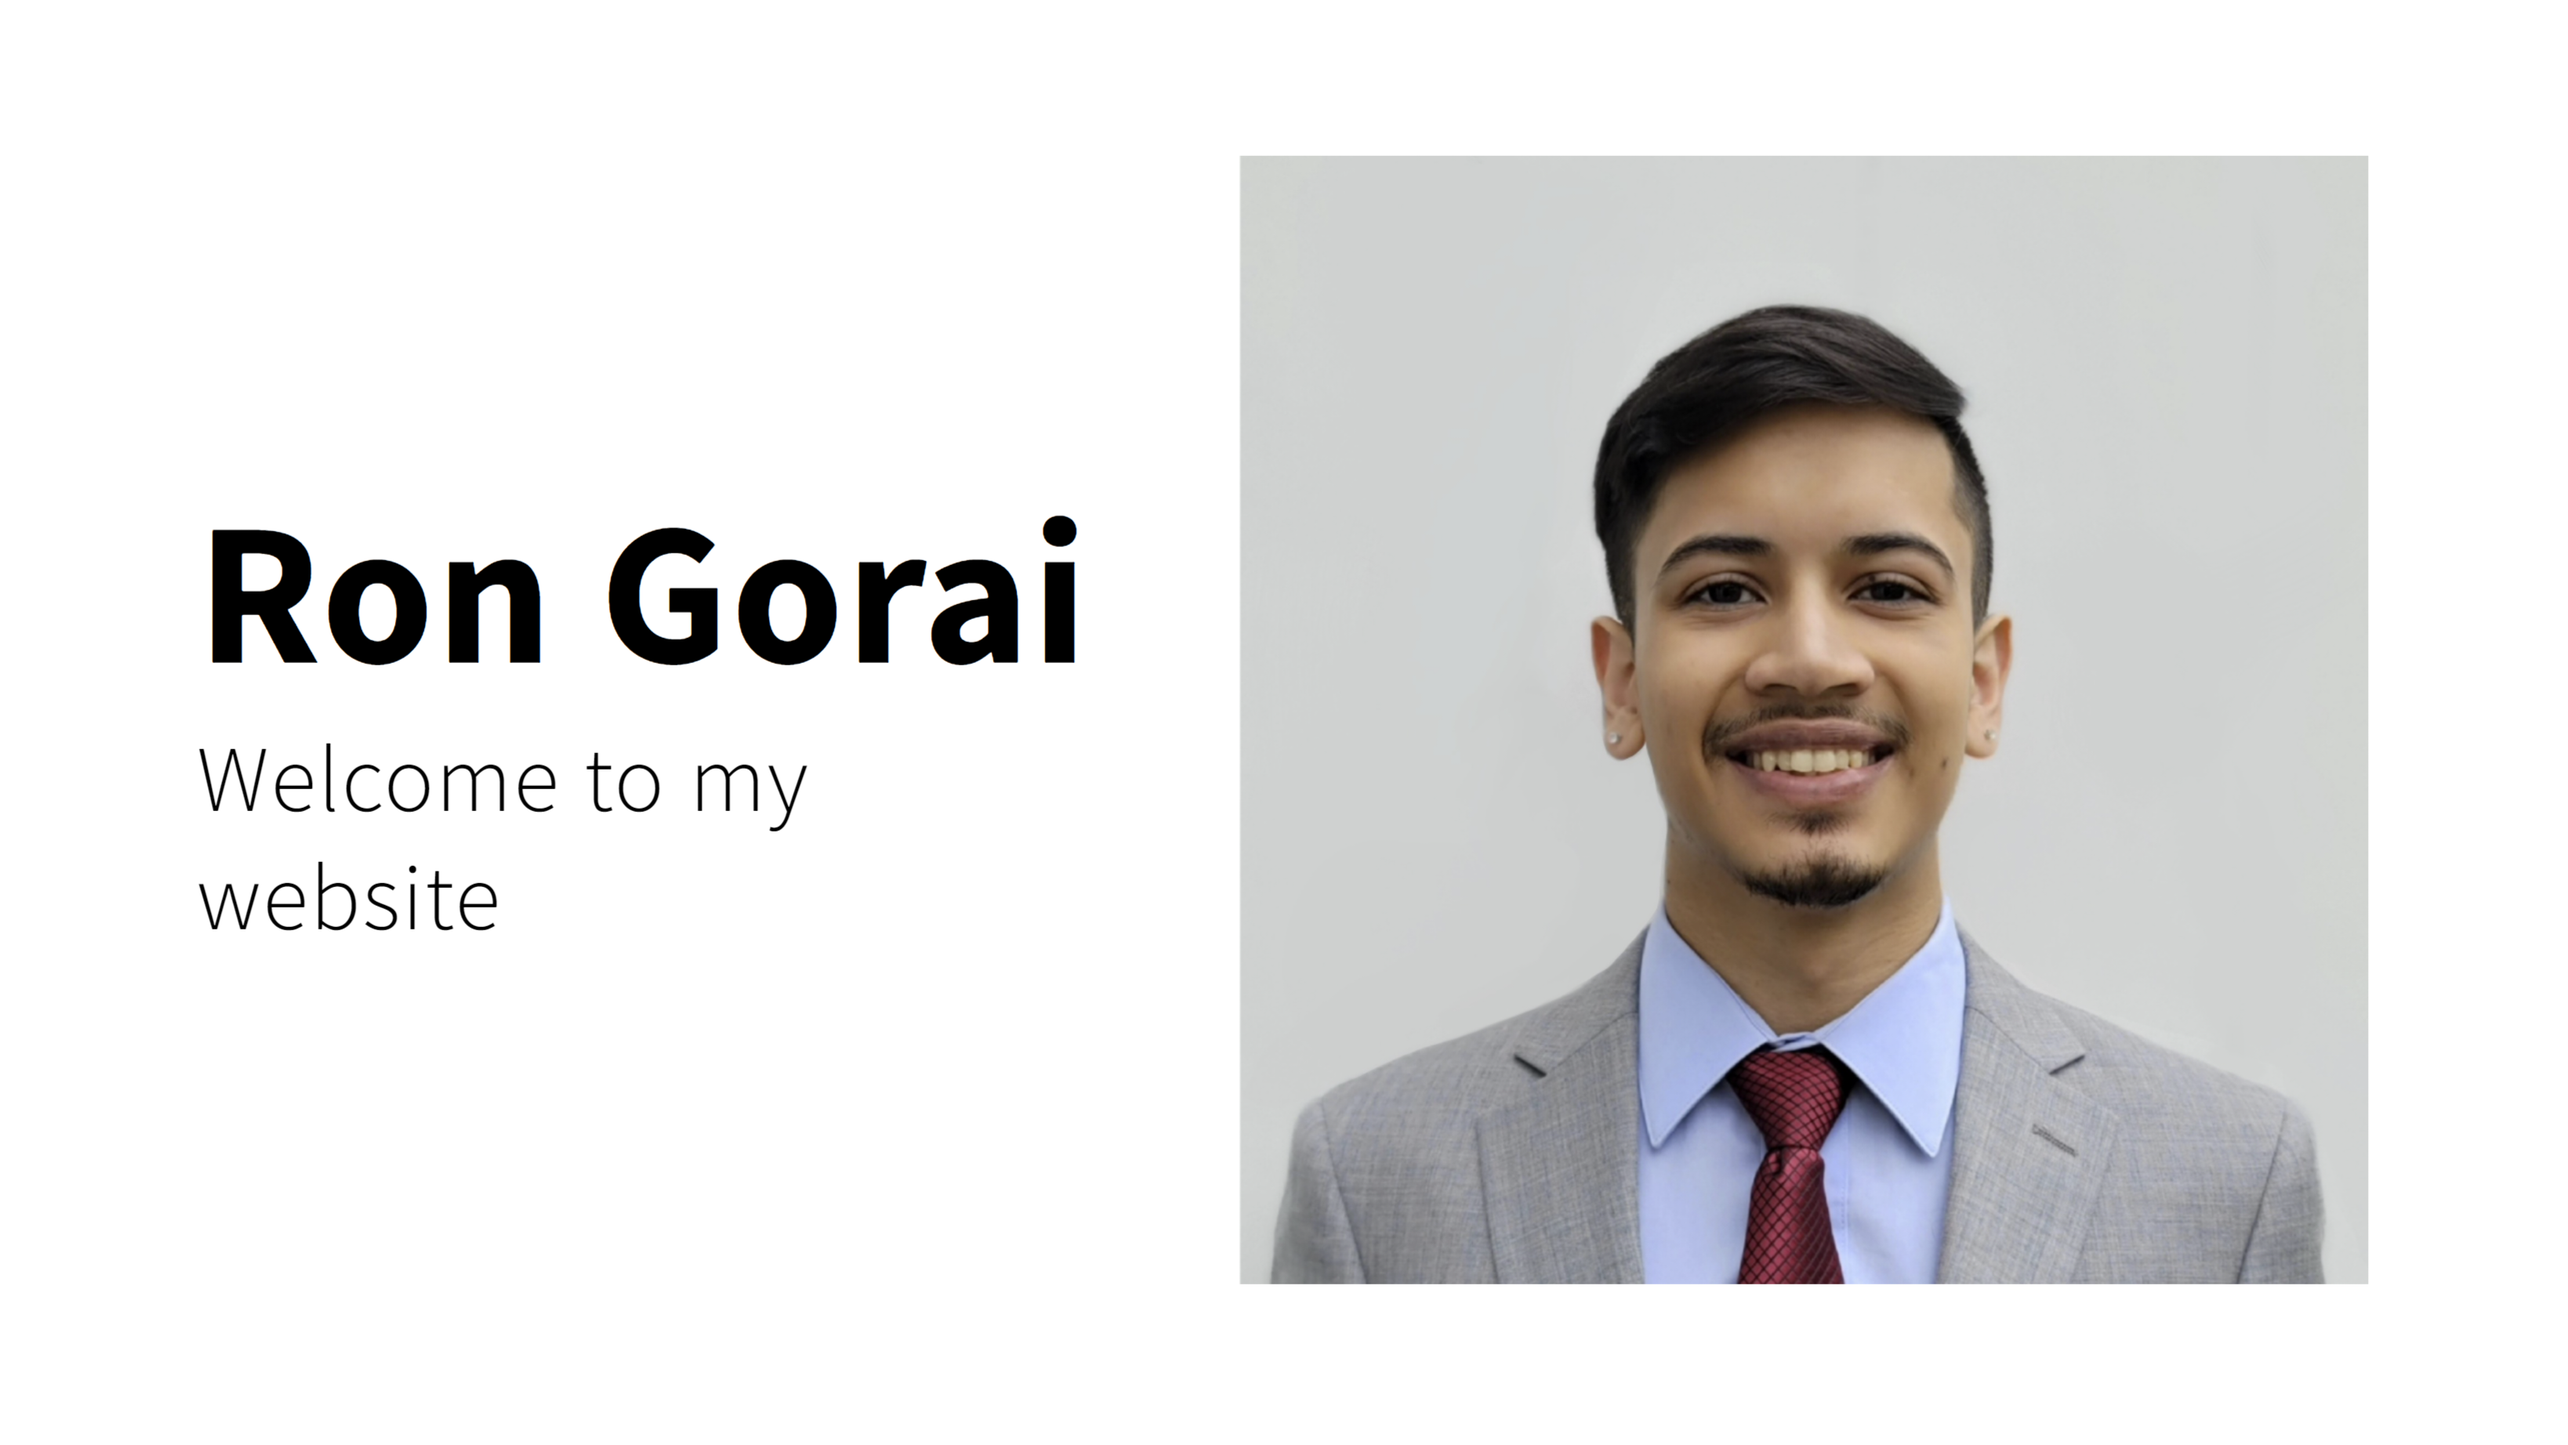
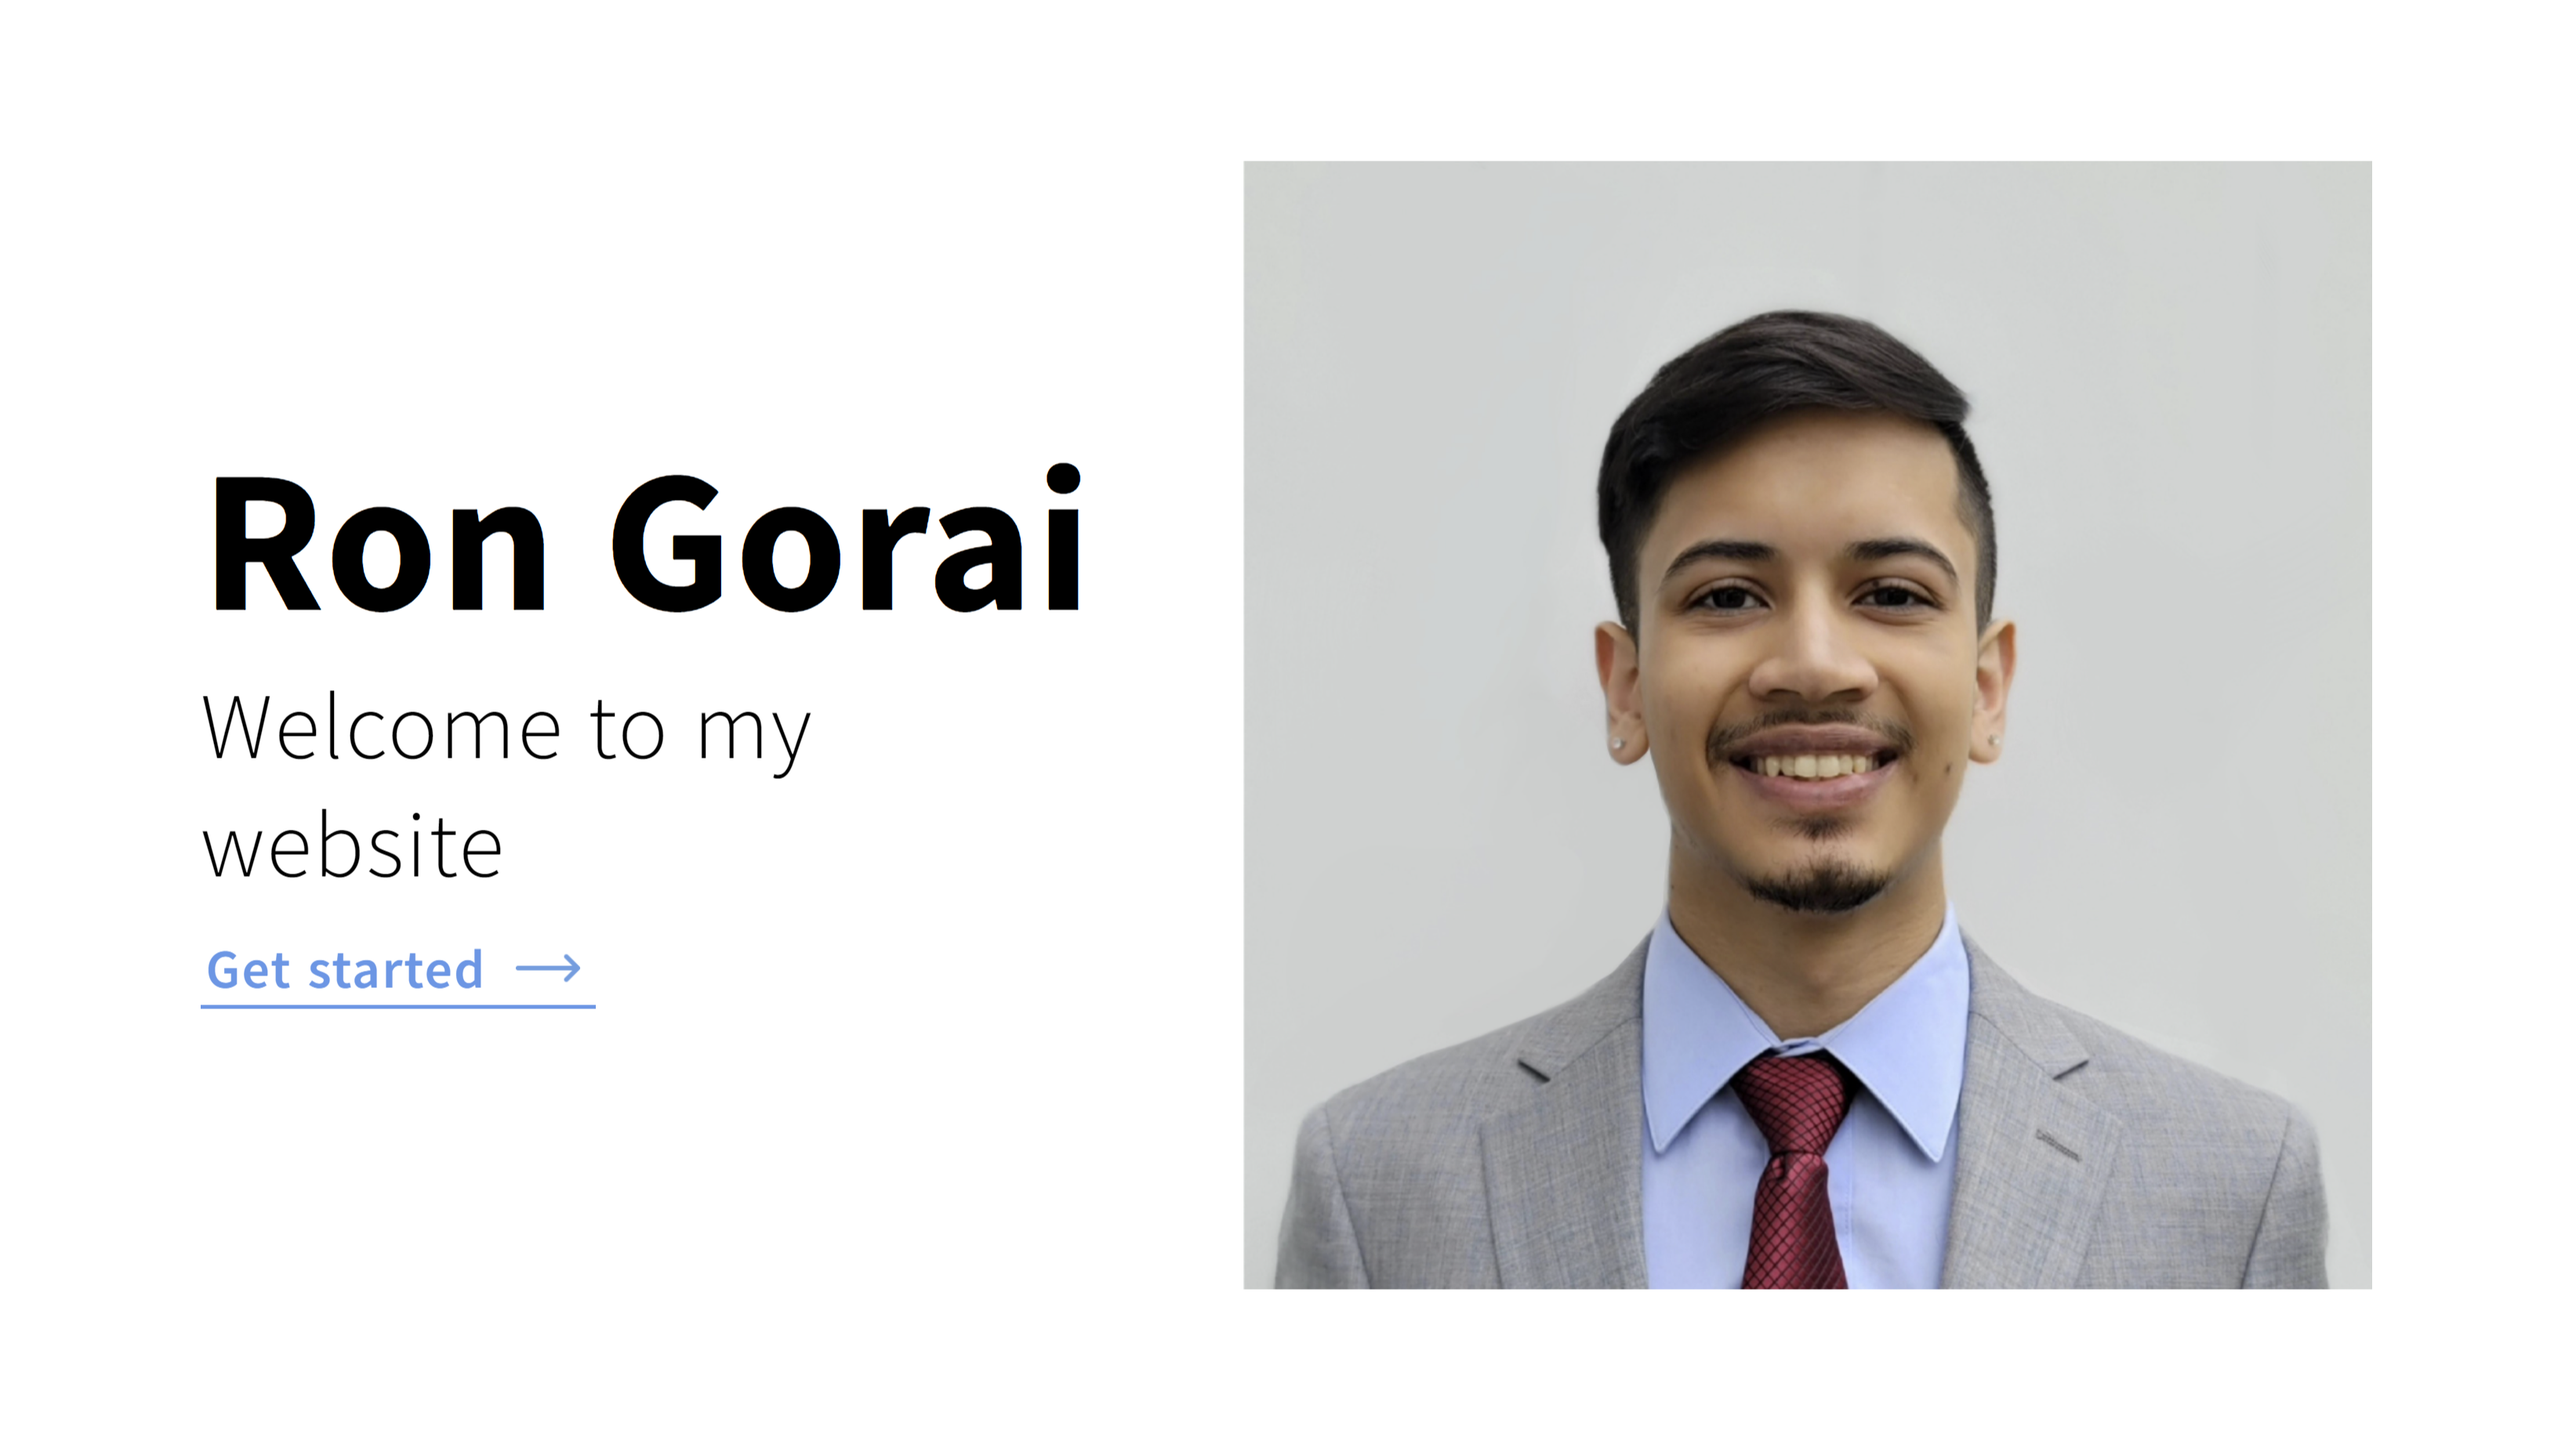
updates

diff --git a/client/public/index.html b/client/public/index.html
@@ -6,9 +6,16 @@
     <meta name="viewport" content="width=device-width, initial-scale=1" />
 
     <meta name="author" content="Ron Gorai" />
-    <meta name="image" property="og:image" content="%PUBLIC_URL%/meta_image.png" />
-    <meta name="description" property="og:description" content="The purpose of this website is to share my hobby and work experiences and practice my skills as a professional software developer. I created this website from nothing but an empty folder and the knowledge I've gained from my classes and co-ops. It is a web application built on the MERN (MongoDB, Express, React, Node) Stack, utilizing modern programming languages like TypeScript and Sass." />
-
+    <meta
+      name="image"
+      property="og:image"
+      content="%PUBLIC_URL%/meta_image.png"
+    />
+    <meta
+      name="description"
+      property="og:description"
+      content="The purpose of this website is to share my hobby and work experiences and practice my skills as a professional software developer."
+    />
 
     <link rel="apple-touch-icon" href="%PUBLIC_URL%/favicon.ico" />
     <!--

diff --git a/client/src/Home/components/HomePage.tsx b/client/src/Home/components/HomePage.tsx
@@ -1,9 +1,14 @@
 import { useEffect } from 'react'
+import { Link } from 'react-router-dom'
 import styles from '../styles/homePage.module.scss'
 import { getFile } from '../../services/utils'
 import { Media } from '../../PageTemplate/components/customContentComponents'
 
-const HomePage = () => {
+type Props = {
+  startLocation: string
+}
+
+const HomePage = (props: Props) => {
   useEffect(() => {
     document.title = `Welcome | Ron Gorai's Personal Website`
   }, [])
@@ -13,6 +18,13 @@ const HomePage = () => {
       <div className={styles.messageContainer}>
         <div className={styles.title}>Ron Gorai</div>
         <div className={styles.welcome}>Welcome to my website</div>
+        <Link className={styles.getStarted} to={props.startLocation}>
+          Get started
+          <img
+            src={`${process.env.PUBLIC_URL}/menu_icons/right-arrow2.png`}
+            alt="about this website"
+          />
+        </Link>
       </div>
       <div className={styles.profileImg}>
         <Media

diff --git a/client/src/Home/styles/homePage.module.scss b/client/src/Home/styles/homePage.module.scss
@@ -27,6 +27,33 @@
       font-size: 3em;
       font-weight: 300;
     }
+
+    .getStarted {
+      @include display-flex(row);
+
+      width: fit-content;
+      font-size: 1.75rem;
+      font-weight: 600;
+      border-bottom: 2px solid $accent-color;
+      text-decoration: none;
+      margin-top: 1rem;
+      color: $accent-color;
+      transform: scale(1);
+      transition: transform 0.1s linear;
+      padding: 0 0.25em 0.05em 0.1em;
+
+      &:hover {
+        transform: scale(1.05);
+      }
+
+      img {
+        width: 1.25em;
+        margin-left: 0.5em;
+        filter:
+          invert(80%) sepia(48%) saturate(4000%) hue-rotate(187deg)
+          brightness(90%) contrast(93%);
+      }
+    }
   }
 
   .profileImg {

diff --git a/client/src/App.tsx b/client/src/App.tsx
@@ -53,7 +53,17 @@ const App = () => (
 
       <main>
         <Routes>
-          <Route path="/" element={<HomePage />} />
+          <Route
+            path="/"
+            element={
+              <HomePage
+                startLocation={parseRoute(
+                  APP_CONTENT[0].name,
+                  APP_CONTENT[0].subItems ? APP_CONTENT[0].subItems[0] : ''
+                )}
+              />
+            }
+          />
           <Route path="/home" element={<Navigate replace to="/" />} />
 
           <Route path="/resume" element={<ResumePage />} />
